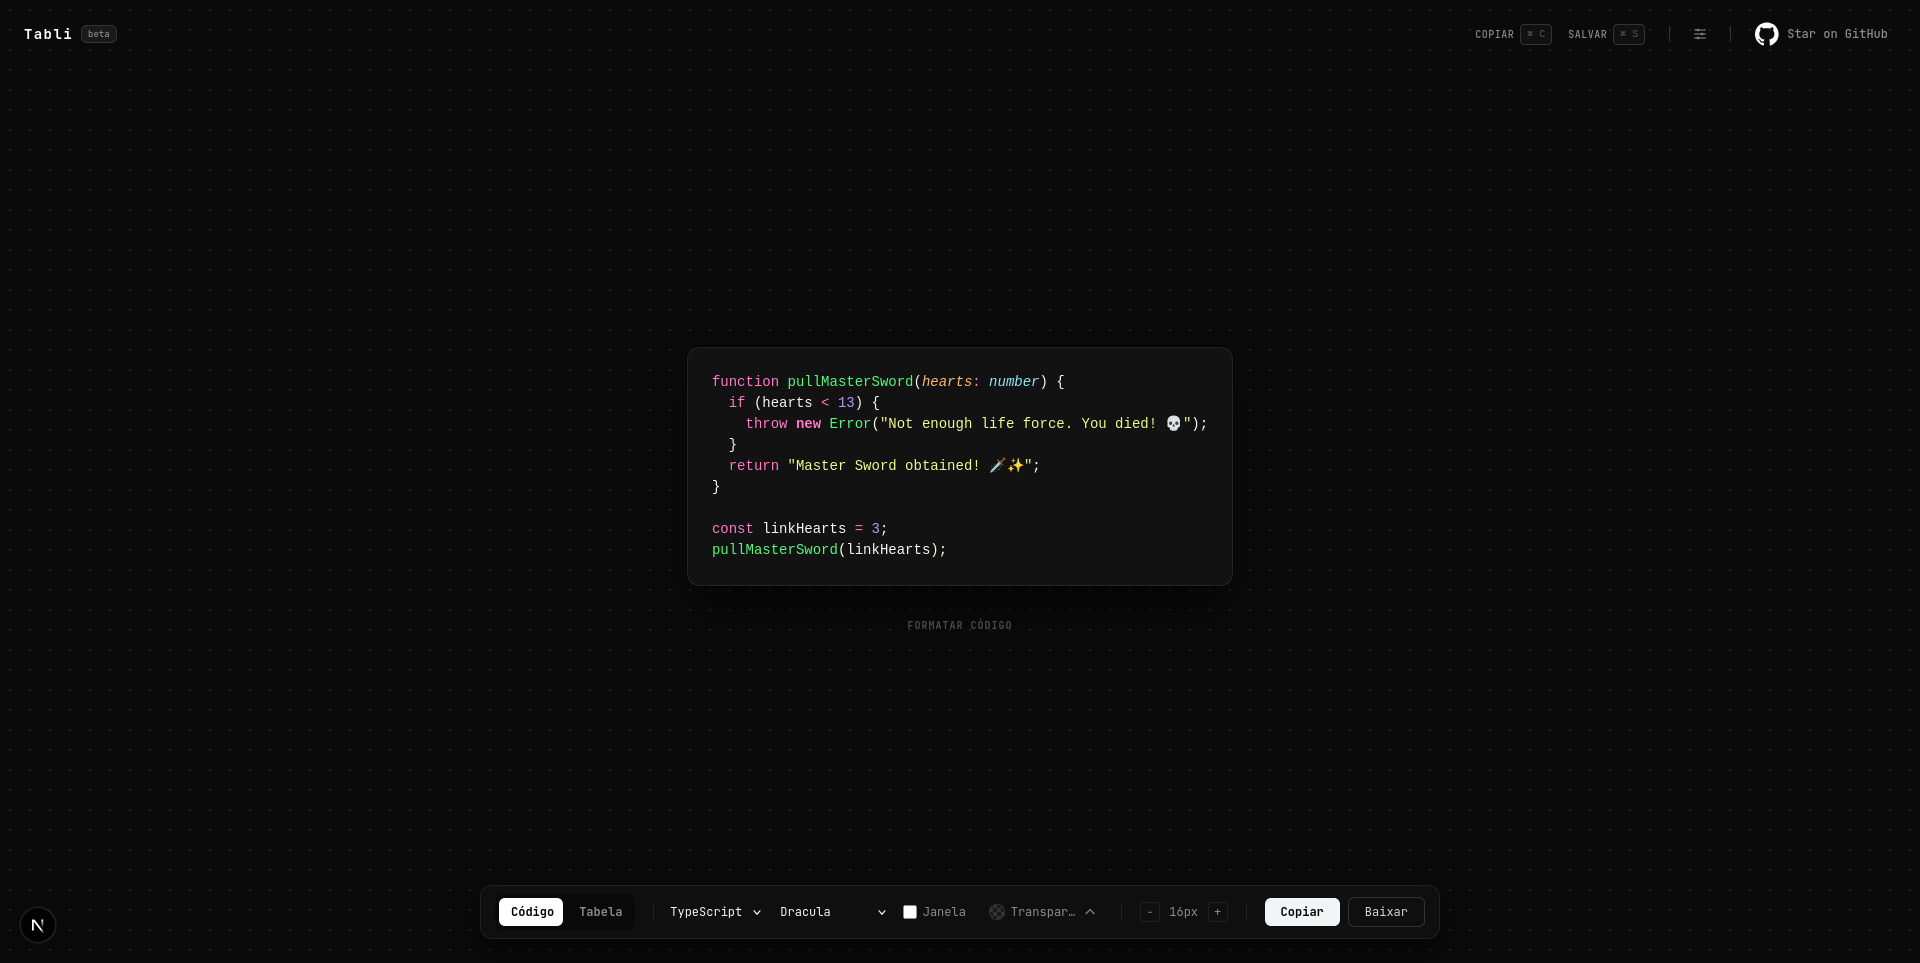
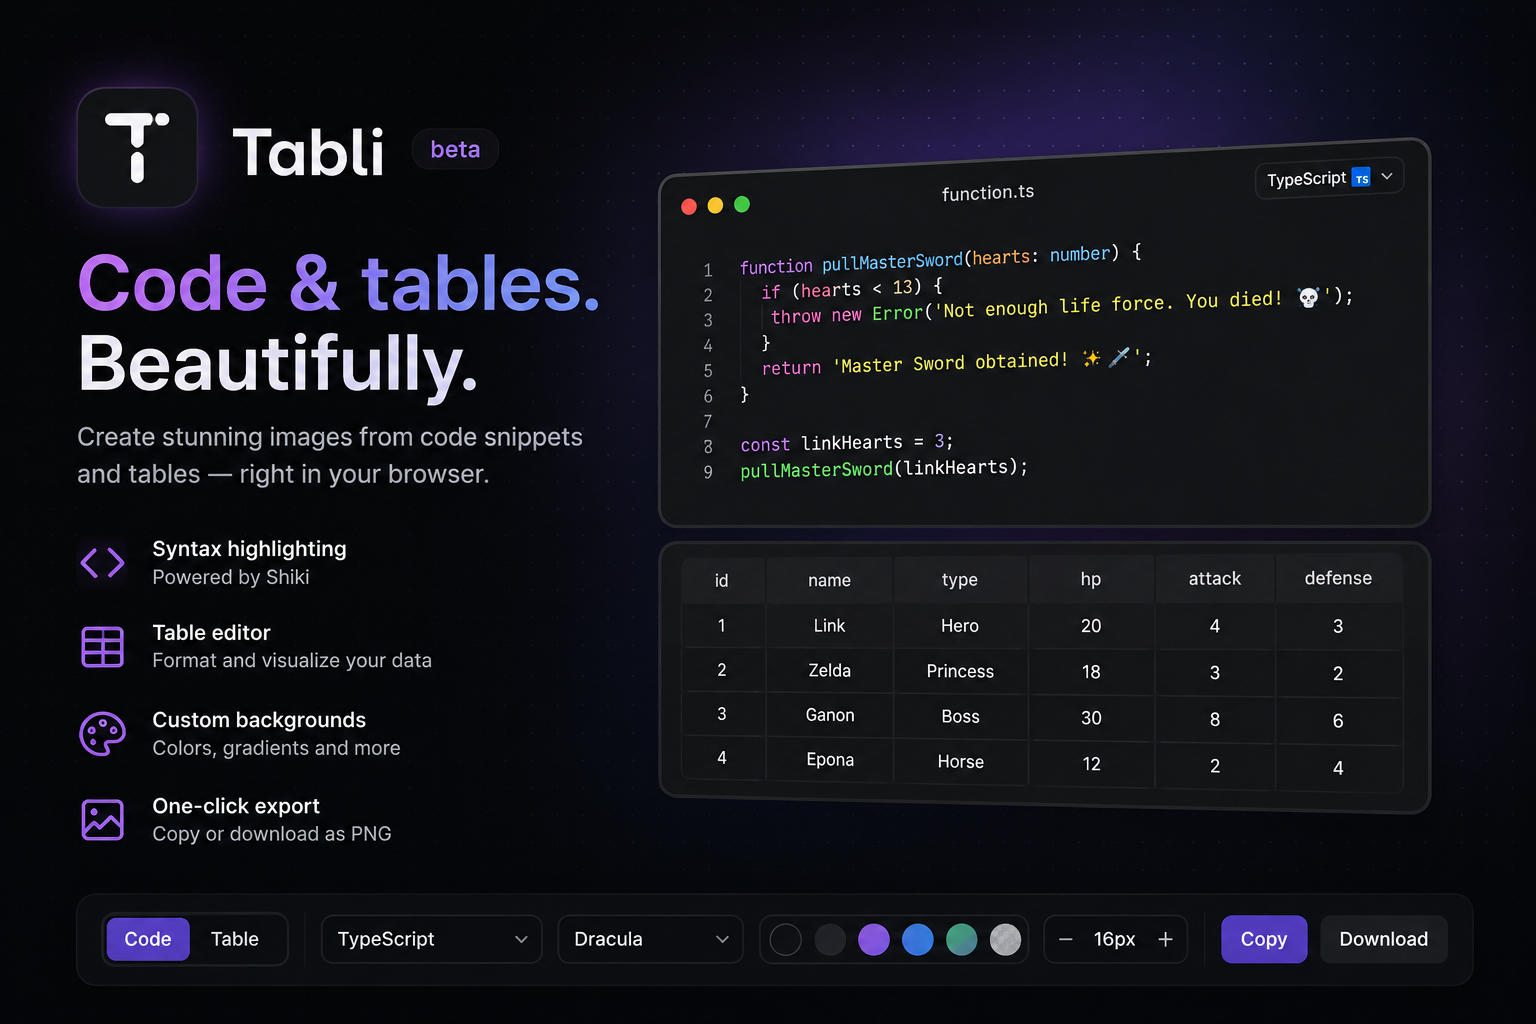
docs: improve README with Hero (created with AI) and real app screen

diff --git a/README.md b/README.md
@@ -1,11 +1,11 @@
 # Tabli
 
 <p align="center">
-  <img src=".github/assets/hero.png" alt="Tabli preview">
+  <img src=".github/assets/hero.png" alt="Tabli hero">
 </p>
 
 <p align="center">
-  Create beautiful images from code snippets and tables — entirely in your browser.
+  <strong>Create beautiful images from code snippets and tables, entirely in your browser.</strong>
 </p>
 
 <p align="center">
@@ -13,6 +13,14 @@
 </p>
 
 ---
+
+## Preview
+
+<p align="center">
+  <img src=".github/assets/app.png" alt="Tabli application">
+</p>
+
+Tabli is a lightweight tool for creating polished images from code snippets and structured tables. Everything runs locally in your browser—no account required, no uploads, no distractions.
 
 ## Features
 
@@ -22,19 +30,19 @@
 - 📝 Inline editing with live preview
 - 📄 Editable filename
 - 🌐 Multiple languages and themes
-- 🖼️ Adjustable backgrounds and padding
+- 🎨 Custom backgrounds and adjustable padding
 
 ### Tables
 
-- 📊 Visual table editor
-- ➕ Add, edit and remove rows and columns
-- 📸 Export clean, presentation-ready tables
+- 📊 Dedicated table editor
+- ➕ Add, edit and remove rows or columns
+- 📷 Export presentation-ready tables
 
 ### Export
 
-- 📋 Copy directly to the clipboard
+- 📋 Copy directly to your clipboard
 - 💾 Download as PNG
-- ⚡ High-quality rendering with `html2canvas-pro`
+- ⚡ High-quality rendering powered by `html2canvas-pro`
 
 ---
 
@@ -62,29 +70,29 @@ npm install
 npm run dev
 ```
 
-Then open:
-
-```
-http://localhost:3000
-```
+Open `http://localhost:3000`.
 
 ---
 
 ## Roadmap
 
-- [ ] Persist editor state in Local Storage
-- [ ] Import tables from CSV
-- [ ] More export formats (SVG)
+- [ ] Persist workspace using Local Storage
+- [ ] CSV import for tables
+- [ ] SVG export
 - [ ] Keyboard shortcuts
-- [ ] More background presets
+- [ ] Additional background presets
+
+---
+
+## Built with AI
+
+Tabli was developed with the assistance of AI tools throughout the development process—from brainstorming and UI iterations to implementation support and code review. Design decisions, architecture, and the final implementation were curated and validated by the author.
 
 ---
 
 ## Contributing
 
-Contributions, ideas and feedback are always welcome.
-
-If you'd like to improve Tabli, feel free to open an issue or submit a pull request.
+Contributions, ideas and feedback are welcome. Feel free to open an issue or submit a pull request.
 
 ---
 